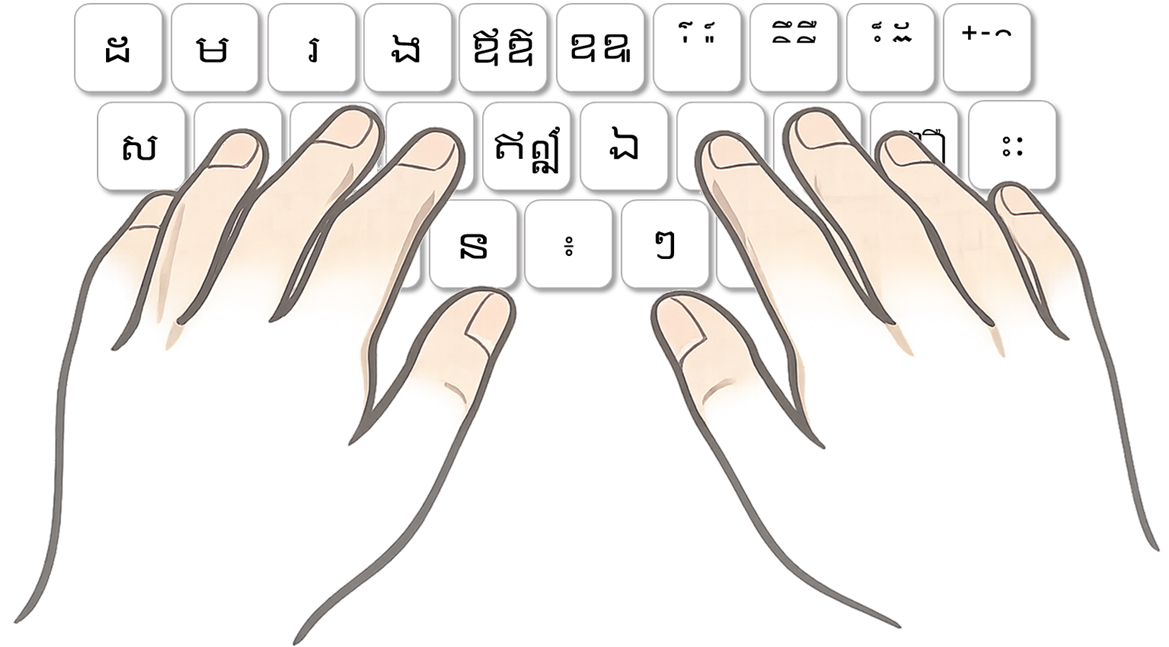
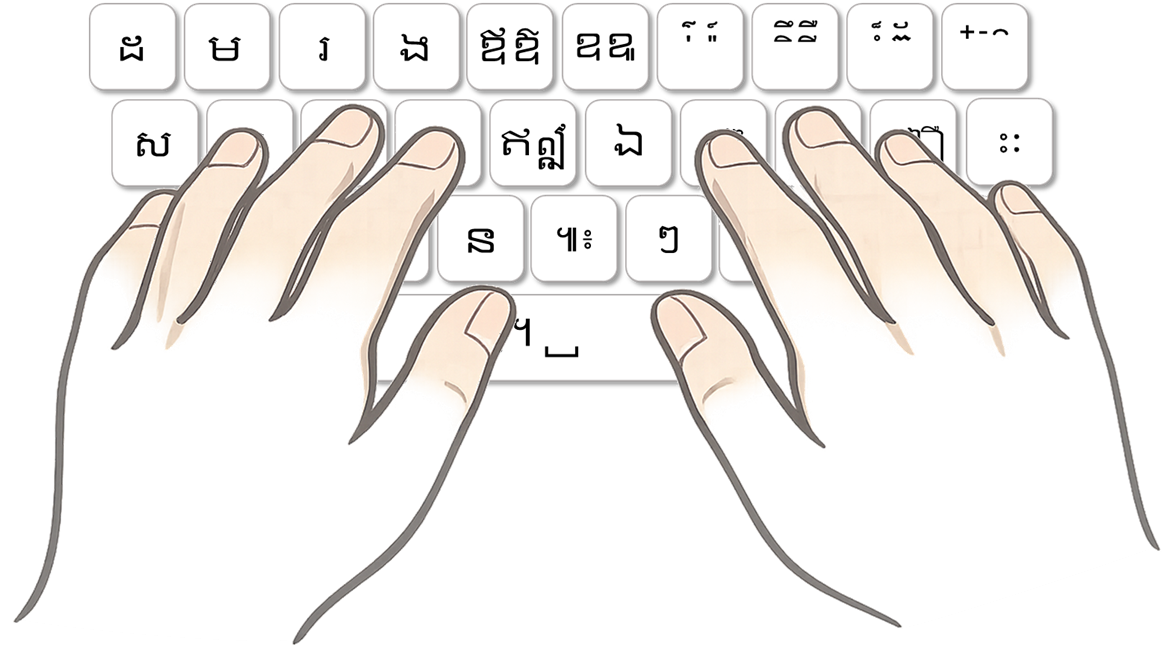
Add files via upload

diff --git a/mobile_demo.html b/mobile_demo.html
@@ -83,6 +83,9 @@
   /* 다음키 버튼 (노란 키 위에 텍스트 표시) */
   .kbd-next { font-size: clamp(10px, 3.5vw, 17px); color: #78350f; font-weight: 900; }
   .kbd-onext { font-size: clamp(10px, 3.5vw, 17px); color: #78350f; font-weight: 900; }
+  /* 스택/팝업 키 */
+  .kbd-stack { font-size: clamp(9px, 3vw, 14px); color: #78350f; font-weight: 900; }
+  .kbd-stack.stack-active { color: #d97706; }
   /* 투명 클릭 영역 (부호/BS/스페이스/엔터/123) */
   .kbd-vowel, .kbd-func, .kbd-space, .kbd-enter, .kbd-123 { font-size: 0; }
   /* 스페이스 텍스트 표시 */
@@ -127,6 +130,8 @@
   }
   .key-space:active { transform: translateY(2px); box-shadow: 0 1px 0 rgba(0,0,0,0.15); }
   .key-space.stack-active { background: #fef3c7; border: 2px solid #f59e0b; }
+  .kbd-space.zwsp-active { background: #fef3c7 !important; border: 2px solid #f59e0b !important; }
+  .kbd-space.dandaa-active { background: #dcfce7 !important; border: 2px solid #22c55e !important; }
   .key-123, .key-enter {
     background: #8e8e93; color: #fff; height: 11vw; border-radius: 6px;
     display: flex; justify-content: center; align-items: center;
@@ -246,8 +251,8 @@ const rightKeys = [
   ],
   [
     { type:'next' },
+    { type:'stack' },
     { type:'vowel', chars:['ុ','ូ','ួ'] },
-    { type:'vowel', chars:['។','៕'] },
     { type:'bs' },
   ],
 ];
@@ -266,7 +271,7 @@ const popupRight = [
     { type:'char', chars:['៙','៚'] },
   ],
   [
-    { type:'char', chars:['៖'] },
+    { type:'char', chars:['៕','៖'] },
     { type:'char', chars:['ៗ'] },
     { type:'char', chars:['៘','ៜ'] },
     { type:'bs' },
@@ -311,6 +316,7 @@ let state = {
   lastVowelKey: null,
   vowelTapIdx: 0,
   stackMode: false,
+  spaceMode: 0, // 0=기본, 1=ZWSP입력됨, 2=।입력됨
   popupLastKey: null,
   popupTapIdx: 0,
   popupCharEntered: false, // 팝업에서 문자 입력됐는지
@@ -323,7 +329,8 @@ function setText(t) {
   editor.dataset.text = t;
   // innerHTML로 렌더: 텍스트 그대로 + 커서 span
   const escaped = t.replace(/&/g,'&amp;').replace(/</g,'&lt;').replace(/>/g,'&gt;');
-  editor.innerHTML = escaped + '<span class="cursor">|</span>';
+  const cursorChar = state.spaceMode === 1 ? '⁝' : '|';
+  editor.innerHTML = escaped + `<span class="cursor">${cursorChar}</span>`;
 }
 function appendText(c) { setText(getText() + c); }
 
@@ -351,6 +358,8 @@ function replaceLastConsonant(newChar) {
 // ── 핸들러 ──────────────────────────────────────
 function handleConsonant(char) {
   const root = getRoot(char);
+  // 새 입력: ZWSP 상태면 커서 원위치
+  if (state.spaceMode !== 0) state.spaceMode = 0;
   if (state.stackMode) {
     // ្ 는 이미 입력창에 있음, 자음만 추가
     appendText(char);
@@ -366,6 +375,7 @@ function handleConsonant(char) {
 }
 
 function handleNext() {
+  if (state.spaceMode !== 0) state.spaceMode = 0;
   if (!state.activeRoot) return;
   const nextIdx = calcNextIdx(state.activeRoot, state.activeCharIdx);
   if (nextIdx === null) return;
@@ -379,6 +389,7 @@ function handleNext() {
 }
 
 function handleONext() {
+  if (state.spaceMode !== 0) state.spaceMode = 0;
   if (!state.activeRoot) return;
   const nextIdx = calcONextIdx(state.activeRoot, state.activeCharIdx);
   if (nextIdx === null) return;
@@ -392,6 +403,7 @@ function handleONext() {
 }
 
 function handleVowel(keyId, chars) {
+  if (state.spaceMode !== 0) state.spaceMode = 0;
   if (state.lastVowelKey === keyId) {
     state.vowelTapIdx = (state.vowelTapIdx + 1) % chars.length;
     const t = getText();
@@ -407,6 +419,48 @@ function handleVowel(keyId, chars) {
 }
 
 function handleSpace() {
+  const ZWSP = '\u200B';
+  const DANDAA = '។';
+
+  if (state.spaceMode === 1) {
+    // 2타: spaceMode 먼저 변경(커서 즉시 원위치), 그 다음 ZWSP→។ 교체
+    state.spaceMode = 2;
+    const t = getText();
+    if (t.endsWith(ZWSP)) setText(t.slice(0, -1) + DANDAA);
+    state.lastVowelKey = null;
+    state.vowelTapIdx = 0;
+    render();
+    return;
+  }
+  if (state.spaceMode === 2) {
+    // 3타: spaceMode 먼저 변경, 그 다음 ។→공백 교체
+    state.spaceMode = 3;
+    const t = getText();
+    if (t.endsWith(DANDAA)) setText(t.slice(0, -1) + ' ');
+    state.lastVowelKey = null;
+    state.vowelTapIdx = 0;
+    render();
+    return;
+  }
+  if (state.spaceMode === 3) {
+    // 4타~: 공백만 추가
+    appendText(' ');
+    state.lastVowelKey = null;
+    state.vowelTapIdx = 0;
+    render();
+    return;
+  }
+  // 기본(spaceMode=0): 1타 — spaceMode 먼저 1로 세팅 후 ZWSP 삽입
+  state.spaceMode = 1;
+  state.activeRoot = null;
+  state.activeCharIdx = 0;
+  state.lastVowelKey = null;
+  state.vowelTapIdx = 0;
+  appendText(ZWSP);
+  render();
+}
+
+function handleStack() {
   if (state.stackMode) {
     // 2탭: ្ 제거 후 팝업
     const t = getText();
@@ -427,7 +481,9 @@ function handleSpace() {
   render();
 }
 
+
 function handleBS() {
+  if (state.spaceMode !== 0) state.spaceMode = 0;
   backspace();
   state.lastVowelKey = null;
   state.vowelTapIdx = 0;
@@ -437,7 +493,6 @@ function handleBS() {
   state.activeRoot = root;
   state.activeCharIdx = root ? consonantRows[root].indexOf(last) : 0;
   state.stackMode = false;
-  
   render();
 }
 
@@ -620,6 +675,11 @@ function render() {
       } else if (rk.type === 'bs') {
         kbd.appendChild(makeOverlayBtn('kbd-func', style, handleBS));
 
+      } else if (rk.type === 'stack') {
+        const b = makeOverlayBtn('kbd-stack' + (state.stackMode ? ' stack-active' : ''), style, () => handleStack());
+        b.textContent = state.stackMode ? '្▸팝업' : '្ ឥ..';
+        kbd.appendChild(b);
+
       } else if (rk.type === 'vowel') {
         kbd.appendChild(makeOverlayBtn('kbd-vowel', style, () => handleVowel(`r${row}c${col}`, rk.chars)));
       }
@@ -632,7 +692,7 @@ function render() {
   }, null));
 
   // 스페이스
-  const sp = makeOverlayBtn('kbd-space' + (state.stackMode ? ' stack-active' : ''), {
+  const sp = makeOverlayBtn('kbd-space', {
     left: '25.95%', top: BOT_Y + '%', width: '48.75%', height: BOT_H + '%'
   }, () => handleSpace());
   kbd.appendChild(sp);
@@ -641,7 +701,7 @@ function render() {
   const lbl = document.createElement('div');
   lbl.className = 'kbd-space-label';
   lbl.style.cssText = `left:25.95%;top:${BOT_Y}%;width:48.75%;height:${BOT_H}%;`;
-  lbl.textContent = '្ ឥ..ៗ..';
+  lbl.textContent = '⁝ ។ ␣';
   kbd.appendChild(lbl);
 
   // 엔터
@@ -698,7 +758,7 @@ document.getElementById('popup-overlay').addEventListener('pointerdown', functio
 });
 
 function resetAll() {
-  setText('');  state = { activeRoot:null, activeCharIdx:0, lastVowelKey:null, vowelTapIdx:0, stackMode:false, popupLastKey:null, popupTapIdx:0, popupCharEntered:false };
+  setText('');  state = { activeRoot:null, activeCharIdx:0, lastVowelKey:null, vowelTapIdx:0, stackMode:false, spaceMode:0, popupLastKey:null, popupTapIdx:0, popupCharEntered:false };
   
   closePopup();
   render();

diff --git a/index.html b/index.html
@@ -80,8 +80,35 @@
         </div>
     </section>
 
+    <section class="py-20 bg-gray-50">
+        <div class="max-w-6xl mx-auto px-6">
+            <div class="flex flex-col md:flex-row items-center gap-12">
+                <div class="md:w-1/2">
+                    <img src="images/sabayspace.png" alt="သရရိုက်နှိပ်ပုံစံ" class="w-full rounded-xl border border-gray-100 shadow-sm">
+                </div>
+                <div class="md:w-1/2">
+                    <h3 class="text-2xl font-bold mb-6 text-gray-800">លាហើយការចុះបន្ទាត់ដែលមិនចង់បាន! - សប្បាយស្ពេស</h3>
+                    <ul class="space-y-4 text-gray-600">
+                        <li class="flex items-start">
+                        <span class="text-blue-500 mr-3 mt-1">✓</span>
+                        <span>ពចុច ១ដង (⁝) - បញ្ចូល<strong>សញ្ញាស្ពេសអរូប</strong> យ៉ាងងាយស្រួល</span>
+                    </li>
+                    <li class="flex items-start">
+                        <span class="text-blue-500 mr-3 mt-1">✓</span>
+                        <span>ចុច ២ដង (។) - បញ្ចូលសញ្ញាខណ្ឌ (។)</span>
+                    </li>
+                    <li class="flex items-start">
+                        <span class="text-blue-500 mr-3 mt-1">✓</span>
+                        <span>ចុច ៣ដងឡើងទៅ (␣) - បញ្ចូលសញ្ញាដកឃ្លាធម្មតា</span>
+                    </li>
+                    </ul>
+                </div>
+            </div>
+        </div>
+    </section>
+
     <section class="py-20 max-w-6xl mx-auto px-6">
-        <div class="flex flex-col md:flex-row items-center gap-12">
+        <div class="flex flex-col md:flex-row-reverse items-center gap-12">
             <div class="md:w-1/2">
                 <img src="images/how2plus.png" alt="အထူးရိုက်နှိပ်ပုံစံ" class="w-full rounded-xl border border-gray-100 shadow-sm">
             </div>
